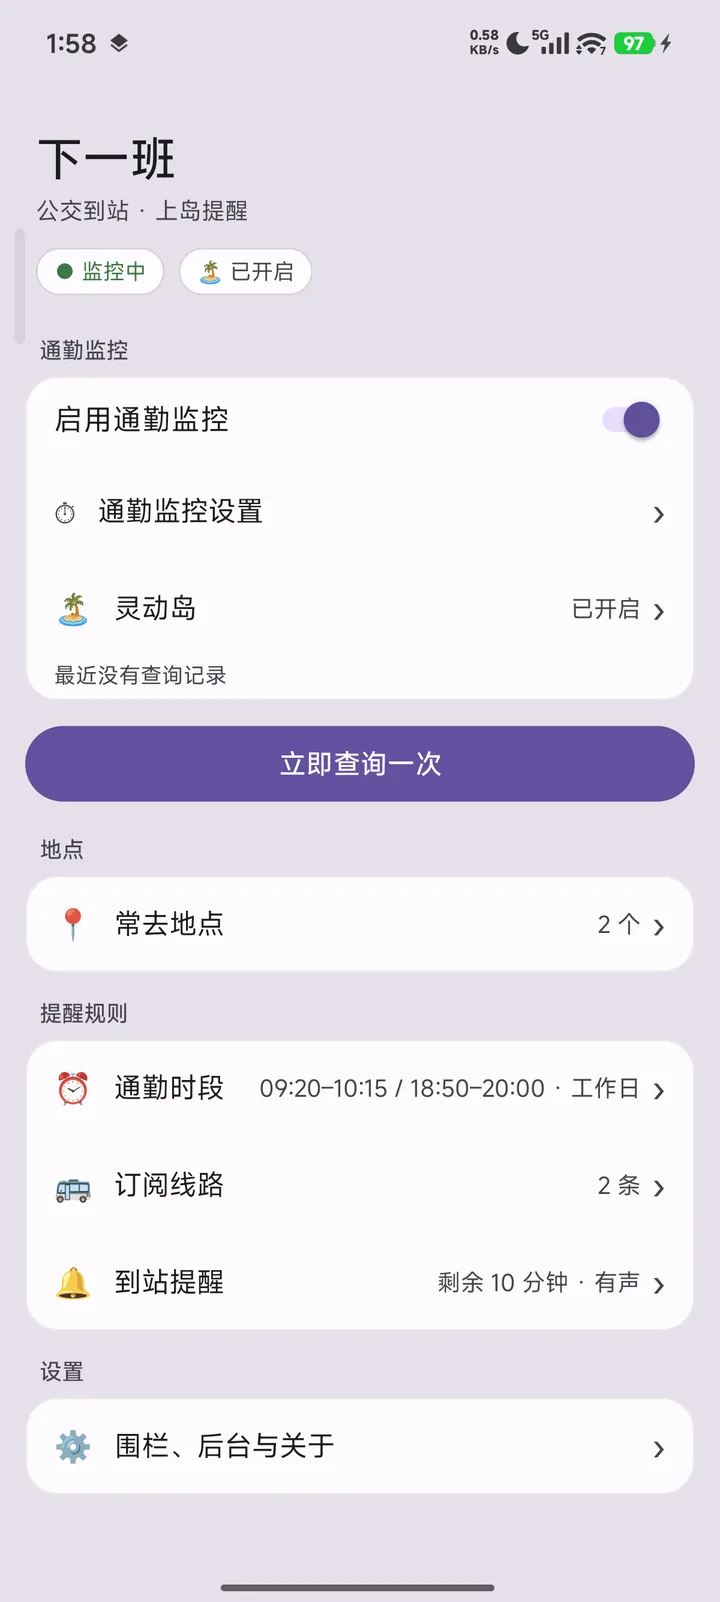
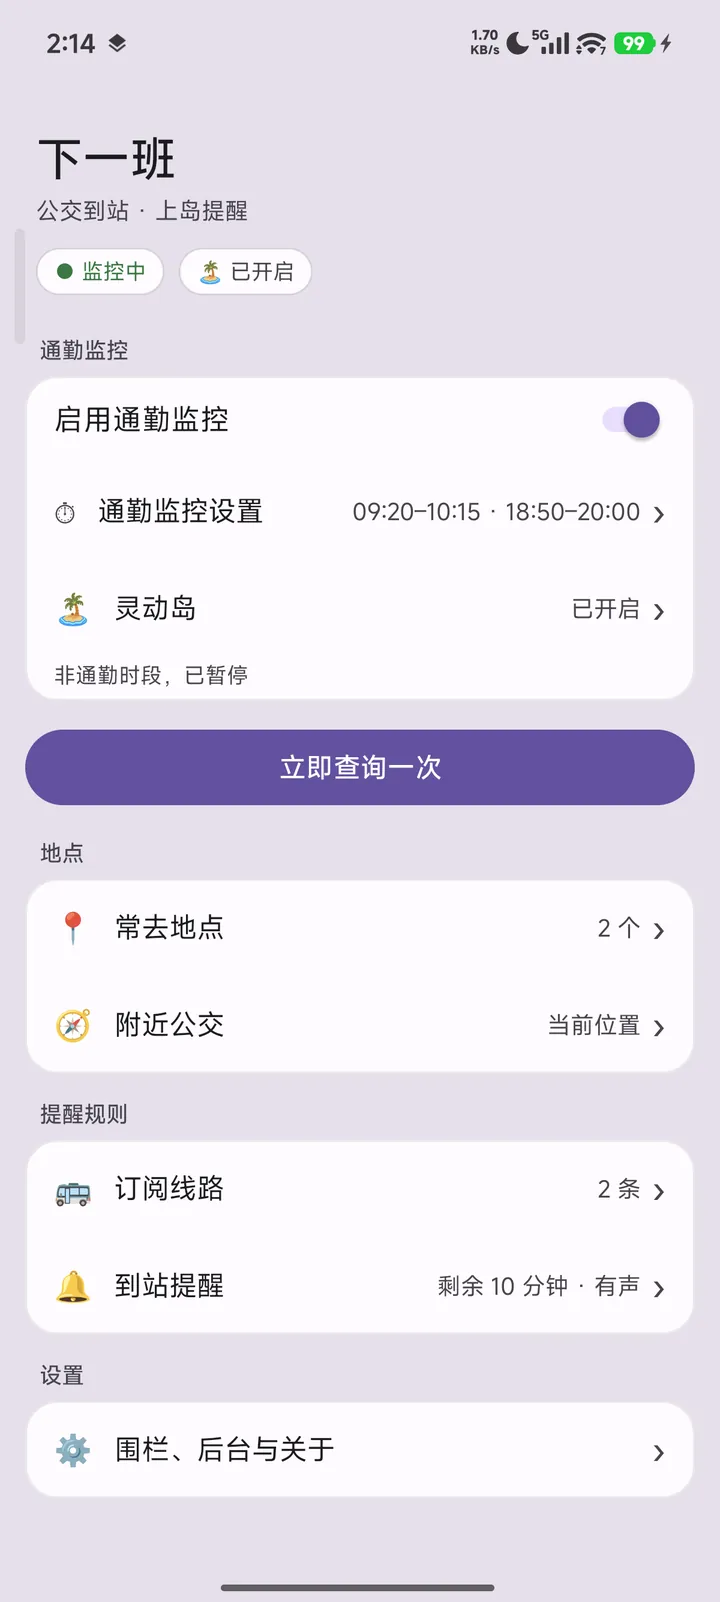
fix: 订阅线路页闪退、两个重复入口、附近公交入口丢失
- AndroidManifest 漏了 LinesActivity 声明，点「订阅线路」直接 ActivityNotFoundException；补上声明
- 「通勤监控设置」与「提醒规则→通勤时段」跳到同一页：删掉后者，时段摘要并进前者的值（工作日信息留在设置页）
- 重构时丢了附近公交入口：地点卡恢复「附近公交 · 当前位置」一行，直达 NearbyLinesActivity(EXTRA_USE_CURRENT)
- 行内标题/值统一单行省略 + 值限宽 52%，修「通勤监控设置」「203 路」被挤成两行的问题
- 订阅线路副标题去掉起终点，只留「站名 · 地点」
- 更新 README 概览截图

diff --git a/app/src/main/java/com/yg/busisland/MainActivity.kt b/app/src/main/java/com/yg/busisland/MainActivity.kt
@@ -141,7 +141,7 @@ class MainActivity : com.yg.busisland.ui.PageActivity() {
     private lateinit var tvChipIsland: TextView
     private lateinit var swMonitor: com.google.android.material.switchmaterial.SwitchMaterial
     private lateinit var tvIsland: TextView
-    private lateinit var tvSchedule: TextView
+    private lateinit var tvMonitorSet: TextView
     private lateinit var tvSettings: TextView
     private lateinit var tvPlaces: TextView
     private lateinit var tvLines: TextView
@@ -219,7 +219,7 @@ class MainActivity : com.yg.busisland.ui.PageActivity() {
             }
         }
         monitorCard.addView(swMonitor)
-        row(monitorCard, "⏱", "通勤监控设置") {
+        tvMonitorSet = row(monitorCard, "⏱", "通勤监控设置") {
             startActivity(Intent(this, MonitorActivity::class.java))
         }
         tvIsland = row(monitorCard, "🏝", "灵动岛") { openIslandSettings() }
@@ -244,13 +244,17 @@ class MainActivity : com.yg.busisland.ui.PageActivity() {
         tvPlaces = row(placeCard, "📍", "常去地点") {
             startActivity(Intent(this, PlacesActivity::class.java))
         }
+        val tvNearby = row(placeCard, "🧭", "附近公交") {
+            startActivity(
+                Intent(this, NearbyLinesActivity::class.java)
+                    .putExtra(NearbyLinesActivity.EXTRA_USE_CURRENT, true)
+            )
+        }
+        tvNearby.text = "当前位置"
 
         // ---- 提醒
         content.addView(section("提醒规则"))
         val ruleCard = newCard(content)
-        tvSchedule = row(ruleCard, "⏰", "通勤时段") {
-            startActivity(Intent(this, MonitorActivity::class.java))
-        }
         tvLines = row(ruleCard, "🚌", "订阅线路") {
             startActivity(Intent(this, LinesActivity::class.java))
         }
@@ -322,11 +326,14 @@ class MainActivity : com.yg.busisland.ui.PageActivity() {
             textSize = 15.5f
             setTextColor(attrColor(com.google.android.material.R.attr.colorOnSurface))
             setPadding(dp(12), 0, dp(8), 0)
+            maxLines = 1
+            ellipsize = android.text.TextUtils.TruncateAt.END
             layoutParams = LinearLayout.LayoutParams(0, -2, 1f)
         })
         val value = TextView(this).apply {
             textSize = 13f
             maxLines = 1
+            maxWidth = (resources.displayMetrics.widthPixels * 0.52f).toInt()
             ellipsize = android.text.TextUtils.TruncateAt.END
             setTextColor(attrColor(com.google.android.material.R.attr.colorOnSurfaceVariant))
         }
@@ -364,15 +371,8 @@ class MainActivity : com.yg.busisland.ui.PageActivity() {
     private fun scheduleSummary(): String {
         val s = prefs.schedule
         fun hm(m: Int) = "%02d:%02d".format(m / 60, m % 60)
-        val days = buildString {
-            val names = arrayOf("一", "二", "三", "四", "五", "六", "日")
-            val on = (0..6).filter { s.weekdays and (1 shl it) != 0 }
-            if (on.isEmpty()) append("未选")
-            else if (on == listOf(0, 1, 2, 3, 4)) append("工作日")
-            else if (on.size == 7) append("每天")
-            else append(on.joinToString("") { names[it] })
-        }
-        return "${hm(s.morningStart)}–${hm(s.morningEnd)} / ${hm(s.eveningStart)}–${hm(s.eveningEnd)} · $days"
+        // 概览行只放时段，工作日进设置页看，避免挤压标题
+        return "${hm(s.morningStart)}–${hm(s.morningEnd)} · ${hm(s.eveningStart)}–${hm(s.eveningEnd)}"
     }
 
     private fun render() {
@@ -381,7 +381,7 @@ class MainActivity : com.yg.busisland.ui.PageActivity() {
         tvChipMonitor.setTextColor(if (prefs.enabled) 0xFF1F7A3D.toInt() else Color.GRAY)
         tvChipIsland.text = "🏝 ${islandLabel()}"
         tvIsland.text = islandLabel()
-        tvSchedule.text = scheduleSummary()
+        tvMonitorSet.text = scheduleSummary()
         tvLines.text = "${prefs.lines.size} 条"
         tvPlaces.text = "${prefs.places.size} 个"
         tvRemind.text = if (prefs.remindEnabled)

diff --git a/app/src/main/java/com/yg/busisland/ui/ListRow.kt b/app/src/main/java/com/yg/busisland/ui/ListRow.kt
@@ -46,6 +46,8 @@ object ListRow {
             textSize = Ds.TXT_ROW
             setTextColor(ctx.colorOnSurface())
             setPadding(ctx.dp(8), 0, ctx.dp(8), 0)
+            maxLines = 1
+            ellipsize = android.text.TextUtils.TruncateAt.END
             layoutParams = LinearLayout.LayoutParams(0, -2, 1f)
         })
 
@@ -53,7 +55,9 @@ object ListRow {
             text = value.orEmpty()
             textSize = Ds.TXT_ROW_VALUE
             setTextColor(ctx.colorOnSurfaceVariant())
-            maxLines = 2
+            maxLines = 1
+            ellipsize = android.text.TextUtils.TruncateAt.END
+            maxWidth = (ctx.resources.displayMetrics.widthPixels * 0.52f).toInt()
             gravity = Gravity.END
         }
         row.addView(valueView)

diff --git a/app/src/main/java/com/yg/busisland/LinesActivity.kt b/app/src/main/java/com/yg/busisland/LinesActivity.kt
@@ -41,7 +41,6 @@ class LinesActivity : com.yg.busisland.ui.PageActivity() {
             val placeName = prefs.placeById(l.place)?.name ?: "未绑定"
             val sub = buildString {
                 append(l.stationName)
-                if (l.routeText.isNotBlank()) append(" · ").append(l.routeText)
                 append(" · ").append(placeName)
             }
             ListRow.add(card, "🚌", l.title, sub) { remove(l) }
